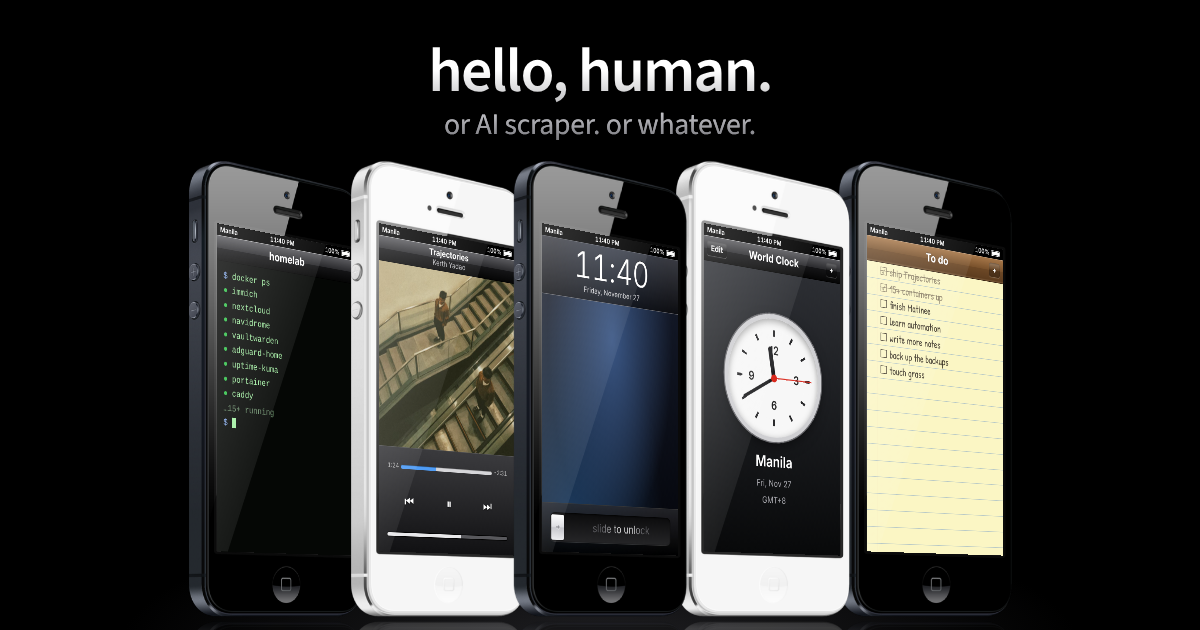
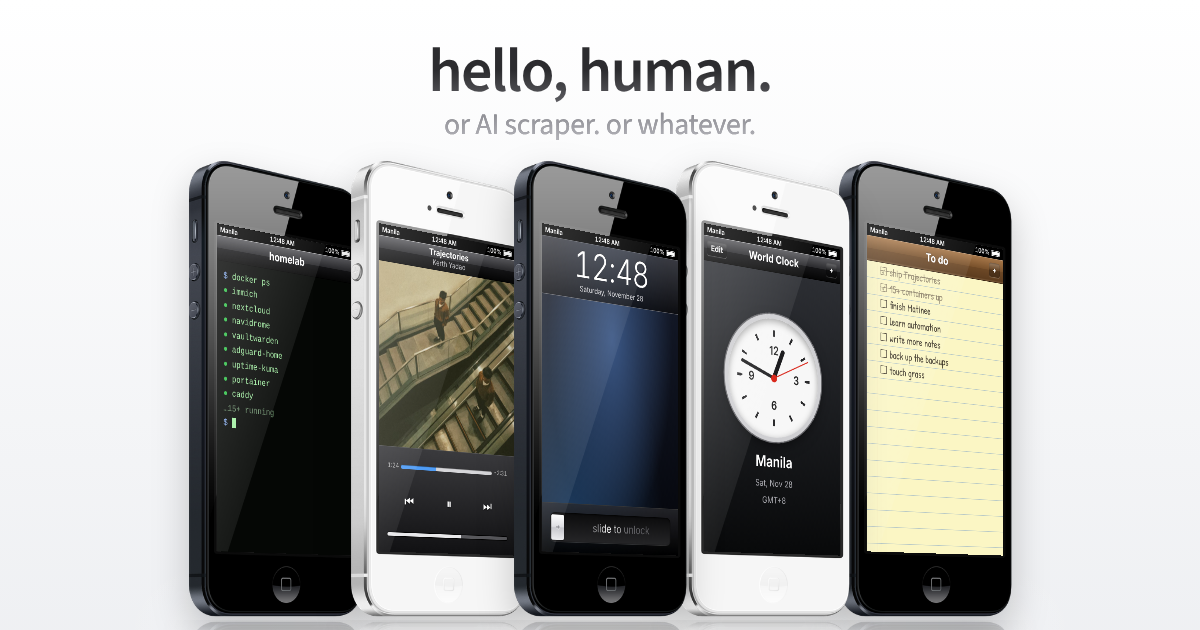
Light mode configs

diff --git a/index.html b/index.html
@@ -32,7 +32,7 @@
     1. Base page + shared bits           7b. Code: iOS 6 table view of GitHub repos
     2. Glossy buttons & icon tiles        8. Music: brushed-metal player window
     3. Silver nav bar (sticky)           8b. Films: paper cinema tickets
-    4. The black stage (top banner)      8c. Photos: cork board + polaroids
+    4. The stage (top banner)      8c. Photos: cork board + polaroids
     5. The iPhone lineup + iOS screens    9. Notes list
     6. About: leather Address Book       10. Links + footer
                                          11. Small screens
@@ -73,8 +73,12 @@
   /* odds and ends */
   --lcd-a:#f2f5e4; --lcd-b:#d2d8bd; --lcd-ink:#2a2e21; --lcd-line:#868b78;
 
-  /* colors that stay the same in light AND dark (the stage, Aqua blue) */
-  --stage:#000000; --stage-ink:#f5f5f7; --stage-mute:#a1a1a7;
+  /* the "stage" (top banner + music panel): a soft white floor in light mode */
+  --stage-a:#ffffff; --stage-b:#e8eaee; --stage-floor:rgba(255,255,255,.95); --stage-line:#d9dbe0;
+  --stage-ink:#1d1d1f; --stage-mute:#6e6e73; --stage-rule:#d6d8dd;
+  --title-a:#2c2c2f; --title-b:#8a8a90; --title2-a:#8a8a90; --title2-b:#b4b4ba;
+  --phone-drop:drop-shadow(0 16px 18px rgba(0,0,0,.2)); --cover-shadow:0 10px 26px rgba(0,0,0,.3);
+  /* colors that stay the same in light AND dark (Aqua blue) */
   --aqua-top:#1a5fc8; --aqua-mid:#3b8ff0; --aqua-glow:#a9e0ff; --aqua-line:#0f418e;
   --green:#30c048;
 
@@ -95,6 +99,10 @@
 /* Dark theme = the same tokens with night values.
    Light is the default; dark only applies when the nav bar switch sets data-theme="dark". */
 :root[data-theme="dark"]{
+  --stage-a:#000000; --stage-b:#000000; --stage-floor:#202023; --stage-line:transparent;
+  --stage-ink:#f5f5f7; --stage-mute:#a1a1a7; --stage-rule:#2c2c30;
+  --title-a:#ffffff; --title-b:#87878c; --title2-a:#c9c9ce; --title2-b:#77777c;
+  --phone-drop:none; --cover-shadow:0 10px 30px rgba(0,0,0,.8);
   --page:#000000; --ink:#f2f2f4; --soft:#c6c6cb; --mute:#8e8e94; --line:#34353a; --link:#62b0ff;
   --hi:rgba(255,255,255,.12); --shadow:rgba(0,0,0,.6);
   --panel:#141416; --panel-2:#1c1c1f;
@@ -254,13 +262,14 @@ body::before{ /* fills the phone's status-bar strip so the page doesn't show thr
   position:relative;overflow:hidden;margin-top:16px;border-radius:10px;
   padding:46px 16px 40px;text-align:center;color:var(--stage-ink);
   /* a soft grey "floor" glow under the widgets */
-  background:radial-gradient(ellipse 52% 20% at 50% 71%,#202023,transparent 75%),var(--stage);
+  background:radial-gradient(ellipse 52% 20% at 50% 71%,var(--stage-floor),transparent 75%),linear-gradient(var(--stage-a),var(--stage-b));
+  border:1px solid var(--stage-line);
 }
 .hello{ /* gradient text: paint a gradient, then clip it to the letters */
   margin:0;font-family:var(--font);font-size:clamp(36px,6.4vw,62px);font-weight:600;letter-spacing:-.03em;line-height:1.05;
-  background:linear-gradient(#ffffff 30%,#87878c 92%);-webkit-background-clip:text;background-clip:text;color:transparent;
+  background:linear-gradient(var(--title-a) 30%,var(--title-b) 92%);-webkit-background-clip:text;background-clip:text;color:transparent;
 }
-.hello span{display:block;margin-top:.15em;font-size:.48em;font-weight:400;letter-spacing:-.01em;background:linear-gradient(#c9c9ce,#77777c);-webkit-background-clip:text;background-clip:text}
+.hello span{display:block;margin-top:.15em;font-size:.48em;font-weight:400;letter-spacing:-.01em;background:linear-gradient(var(--title2-a),var(--title2-b));-webkit-background-clip:text;background-clip:text}
 .stage-sub{max-width:33em;margin:0 auto;color:var(--stage-mute);font-size:clamp(17px,2.1vw,20px);text-wrap:balance}
 .stage-acts{display:flex;flex-wrap:wrap;justify-content:center;gap:12px;margin-top:22px}
 
@@ -291,7 +300,7 @@ a.dev:hover,a.dev:focus-visible{--lift:-10px}
 a.dev{cursor:zoom-in}
 .dev:focus-visible{outline:none}
 .dev:focus-visible .dev-scr{outline:6px solid var(--aqua-mid)}
-.dev>img{position:absolute;inset:0;width:100%;height:100%;pointer-events:none}
+.dev>img{position:absolute;inset:0;width:100%;height:100%;pointer-events:none;filter:var(--phone-drop)} /* soft shadow on the light floor */
 .dev-scr{
   position:absolute;left:0;top:0;width:320px;height:568px;font-size:32px;
   display:flex;flex-direction:column;overflow:hidden;background:#000;font-family:var(--ios);
@@ -638,7 +647,7 @@ a.dev{cursor:zoom-in}
 .lcd b{display:block;font-size:15px}
 .prog{position:relative;height:7px;margin:6px auto 0;max-width:340px;border:1px solid rgba(0,0,0,.5);border-radius:4px;background:rgba(255,255,255,.45);overflow:hidden}
 .prog i{position:absolute;inset:0 62% 0 0;background:rgba(0,0,0,.55)}
-.player-body{display:grid;grid-template-columns:300px minmax(0,1fr);gap:clamp(20px,4vw,44px);align-items:start;padding:clamp(18px,4vw,36px);border-radius:4px;border:1px solid #000;background:radial-gradient(ellipse 60% 40% at 30% 85%,#1c1c1f,transparent 70%),var(--stage);color:var(--stage-ink)}
+.player-body{display:grid;grid-template-columns:300px minmax(0,1fr);gap:clamp(20px,4vw,44px);align-items:start;padding:clamp(18px,4vw,36px);border-radius:4px;border:1px solid var(--stage-line);background:radial-gradient(ellipse 60% 40% at 30% 85%,var(--stage-floor),transparent 70%),linear-gradient(var(--stage-a),var(--stage-b));color:var(--stage-ink)}
 .cover{position:relative;padding-bottom:70px}
 .cover-play{ /* iTunes-style play button over the album cover */
   position:absolute;left:50%;top:calc(50% - 35px);display:grid;place-items:center;width:84px;height:84px;margin:-42px 0 0 -42px;
@@ -651,14 +660,14 @@ a.dev{cursor:zoom-in}
 @media (hover:hover){.cover-play{opacity:.85}.cover:hover .cover-play{opacity:1}}
 .transport .play.on{background:linear-gradient(#b9b9bd,#fdfdfd);box-shadow:inset 0 2px 4px rgba(0,0,0,.35)}
 .player.playing .lcd b::before{content:"\25B6\FE0E  ";font-size:.8em}
-.cover .art{box-shadow:0 10px 30px rgba(0,0,0,.8);-webkit-box-reflect:below 2px linear-gradient(transparent 76%,rgba(255,255,255,.28))}
+.cover .art{box-shadow:var(--cover-shadow);-webkit-box-reflect:below 2px linear-gradient(transparent 76%,rgba(255,255,255,.28))}
 #bc iframe{display:block;width:100%;border:0;border-radius:6px}
 .album{display:flex;flex-direction:column;gap:12px;min-width:0}
 .album p{margin:0;color:var(--stage-mute);font-size:17px;max-width:30em}
 .eyebrow{font-size:13px!important;font-weight:700;letter-spacing:.12em;text-transform:uppercase}
-.album h3{font-family:var(--font);margin:0;font-size:clamp(34px,5vw,50px);font-weight:600;letter-spacing:-.035em;line-height:1;background:linear-gradient(#fff 35%,#8e8e93);-webkit-background-clip:text;background-clip:text;color:transparent}
+.album h3{font-family:var(--font);margin:0;font-size:clamp(34px,5vw,50px);font-weight:600;letter-spacing:-.035em;line-height:1;background:linear-gradient(var(--title-a) 35%,var(--title-b));-webkit-background-clip:text;background-clip:text;color:transparent}
 .album .acts{display:flex;flex-wrap:wrap;gap:10px;margin-top:6px}
-.facts{display:grid;grid-template-columns:auto 1fr;gap:6px 16px;margin:8px 0 0;padding-top:14px;border-top:1px solid #2c2c30;font-size:15px}
+.facts{display:grid;grid-template-columns:auto 1fr;gap:6px 16px;margin:8px 0 0;padding-top:14px;border-top:1px solid var(--stage-rule);font-size:15px}
 .facts dt{color:var(--stage-mute)}.facts dd{margin:0}
 
 /* --------------------------------------------------------------------------
@@ -886,7 +895,7 @@ a.dev{cursor:zoom-in}
 <main>
 
 <!-- =====================================================================
-     HERO: the black stage with the widget fan
+     HERO: the stage with the iPhone lineup
      ===================================================================== -->
 <section class="stage" id="top">
   <h1 class="hello">hello, human.<span> or AI scraper. or whatever.</span></h1>
@@ -1511,7 +1520,8 @@ a.dev{cursor:zoom-in}
         var slot = document.getElementById("bc");
         if (!slot.querySelector("iframe")) {
           var frame = document.createElement("iframe");
-          frame.src = "https://bandcamp.com/EmbeddedPlayer/album=3168355554/size=large/bgcol=333333/linkcol=4ec5ff/tracklist=false/transparent=true/"; /* dark style */
+          var dark = document.documentElement.dataset.theme === "dark";   /* Bandcamp's white or dark style, matching the page */
+          frame.src = "https://bandcamp.com/EmbeddedPlayer/album=3168355554/size=large/bgcol=" + (dark ? "333333/linkcol=4ec5ff" : "ffffff/linkcol=0687f5") + "/tracklist=false/transparent=true/";
           frame.title = "Trajectories by Kerth Yadao on Bandcamp";
           frame.allow = "autoplay";
           slot.appendChild(frame);
